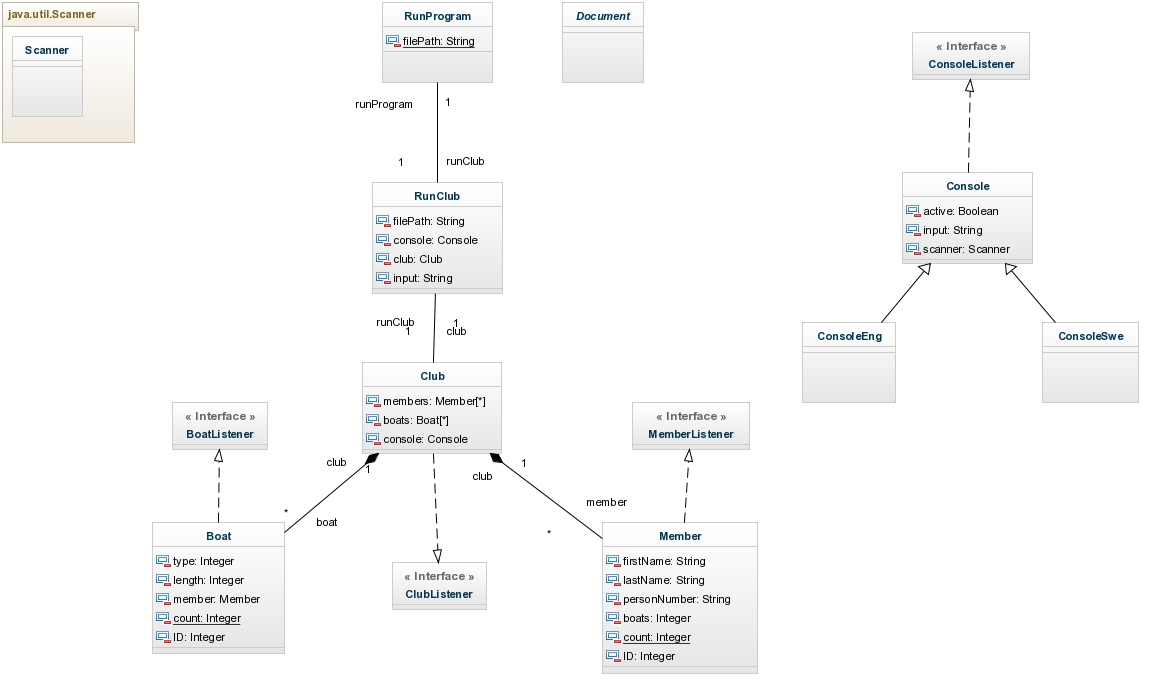
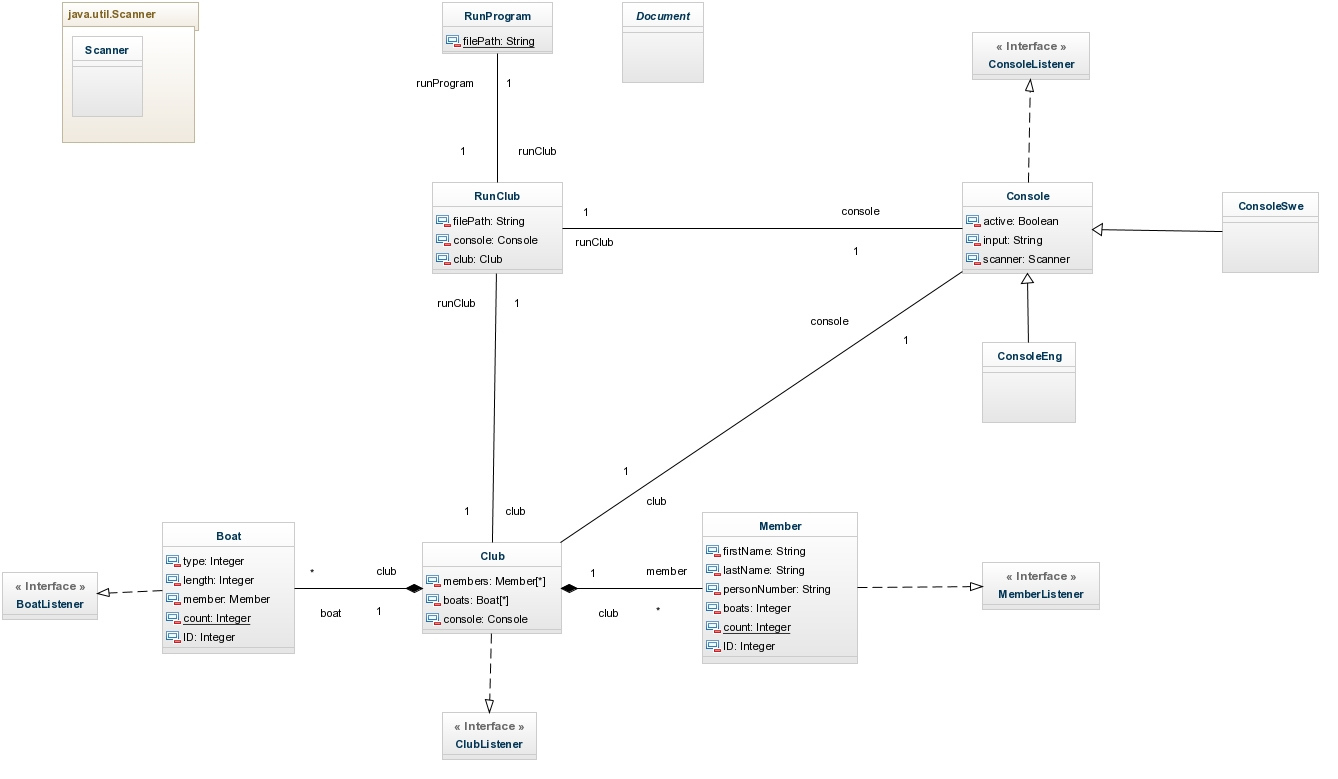
Improved "Class Diagram.jpg", changed attribute "path" to "filePath".

diff --git a/Workshop 2/src/YachtClub/Controller/RunClub.java b/Workshop 2/src/YachtClub/Controller/RunClub.java
@@ -13,16 +13,16 @@ import java.io.IOException;
 public class RunClub {
     
     /* Private Variable Fields */
-    private final String path;
+    private final String filePath;
     private final YachtClub.View.Console console;
     private final YachtClub.Objects.Club club;
     
     
     
     /* Constructors ==> create new instance */
-    public RunClub(String path, YachtClub.View.Console console, YachtClub.Objects.Club club) {   //Constructor starts
+    public RunClub(String filePath, YachtClub.View.Console console, YachtClub.Objects.Club club) {   //Constructor starts
         
-        this.path = path;
+        this.filePath = filePath;
         this.console = console;
         this.club = club;
         
@@ -105,7 +105,7 @@ public class RunClub {
         String lastName = console.getInput();
         String personNumber = console.getInput();
         club.registerMember(firstName, lastName, personNumber);
-        Document.parseIntoTextFile(path, club.getMembers(), club.getBoats());
+        Document.parseIntoTextFile(filePath, club.getMembers(), club.getBoats());
         
     }   //Method orderAddMember ends
     
@@ -118,7 +118,7 @@ public class RunClub {
             club.unregisterMember(Integer.parseInt(remove));    //Convert it into an integer
         else club.unregisterMember(remove);                     //Otherwise remove member by person number
         
-        Document.parseIntoTextFile(path, club.getMembers(), club.getBoats());
+        Document.parseIntoTextFile(filePath, club.getMembers(), club.getBoats());
         
     }   //Method orderUnregisterMember ends
     
@@ -132,7 +132,7 @@ public class RunClub {
         
         if (isInteger(ID)) {
             club.editMember(0, newFirstName, newLastName, newPersonNumber);
-            Document.parseIntoTextFile(path, club.getMembers(), club.getBoats());
+            Document.parseIntoTextFile(filePath, club.getMembers(), club.getBoats());
         }
         else console.showError("input");
         
@@ -146,7 +146,7 @@ public class RunClub {
         
         if (isInteger(length)) {
             club.addBoat(type, Integer.parseInt(length));
-            Document.parseIntoTextFile(path, club.getMembers(), club.getBoats());
+            Document.parseIntoTextFile(filePath, club.getMembers(), club.getBoats());
         }
         else console.showError("input"); 
         
@@ -159,7 +159,7 @@ public class RunClub {
         
         if (isInteger(ID)) {
             club.deleteBoat(Integer.parseInt(ID));
-            Document.parseIntoTextFile(path, club.getMembers(), club.getBoats());
+            Document.parseIntoTextFile(filePath, club.getMembers(), club.getBoats());
         }
         else console.showError("input");
         
@@ -174,7 +174,7 @@ public class RunClub {
         
         if (isInteger(ID) && isInteger(newLength)) {
             club.editBoat(Integer.parseInt(ID), newType, Integer.parseInt(newLength));
-            Document.parseIntoTextFile(path, club.getMembers(), club.getBoats());
+            Document.parseIntoTextFile(filePath, club.getMembers(), club.getBoats());
         }
         else console.showError("input");
         
@@ -195,7 +195,7 @@ public class RunClub {
                 }
             if (member != null) {
                 club.assign(Integer.parseInt(ID), member);
-                Document.parseIntoTextFile(path, club.getMembers(), club.getBoats());
+                Document.parseIntoTextFile(filePath, club.getMembers(), club.getBoats());
             }
             else console.showError("member does not exist");
         }
@@ -210,7 +210,7 @@ public class RunClub {
         
         if (isInteger(ID)) {
             club.unassign(Integer.parseInt(ID));
-            Document.parseIntoTextFile(path, club.getMembers(), club.getBoats());
+            Document.parseIntoTextFile(filePath, club.getMembers(), club.getBoats());
         }
         else console.showError("input");
         

diff --git a/Workshop 2/src/YachtClub/Controller/RunProgram.java b/Workshop 2/src/YachtClub/Controller/RunProgram.java
@@ -20,7 +20,7 @@ import java.util.Scanner;
 public class RunProgram {     //Class RunProgram starts
     
     /* Private Variable Fields */
-    private static final String path = "Data/Club.txt";
+    private static final String filePath = "Data/Club.txt";
     
     
     
@@ -30,14 +30,14 @@ public class RunProgram {     //Class RunProgram starts
         Scanner scan = new Scanner(System.in);
         Console console = selectLanguage(scan);
         Club club;
-        if (Document.fileExists(path))
+        if (Document.fileExists(filePath))
             club = loadData(console);
         else {
-            Document.createFile(path);
+            Document.createFile(filePath);
             club = new Club(console);
         }
         
-        RunClub runClub = new RunClub(path, console, club);
+        RunClub runClub = new RunClub(filePath, console, club);
         runClub.activate();
         
     }   //Method main ends
@@ -49,8 +49,8 @@ public class RunProgram {     //Class RunProgram starts
         
         Scanner fileScan = null;
         try {
-            ArrayList<String> memberList = Document.readList(fileScan, "MEMBERS", path);
-            ArrayList<String> boatList = Document.readList(fileScan, "BOATS", path);
+            ArrayList<String> memberList = Document.readList(fileScan, "MEMBERS", filePath);
+            ArrayList<String> boatList = Document.readList(fileScan, "BOATS", filePath);
             ArrayList<Member> members = Document.readMembers(memberList);
             ArrayList<Boat> boats = Document.readBoats(boatList, members);
             return new Club(members, boats, console);
